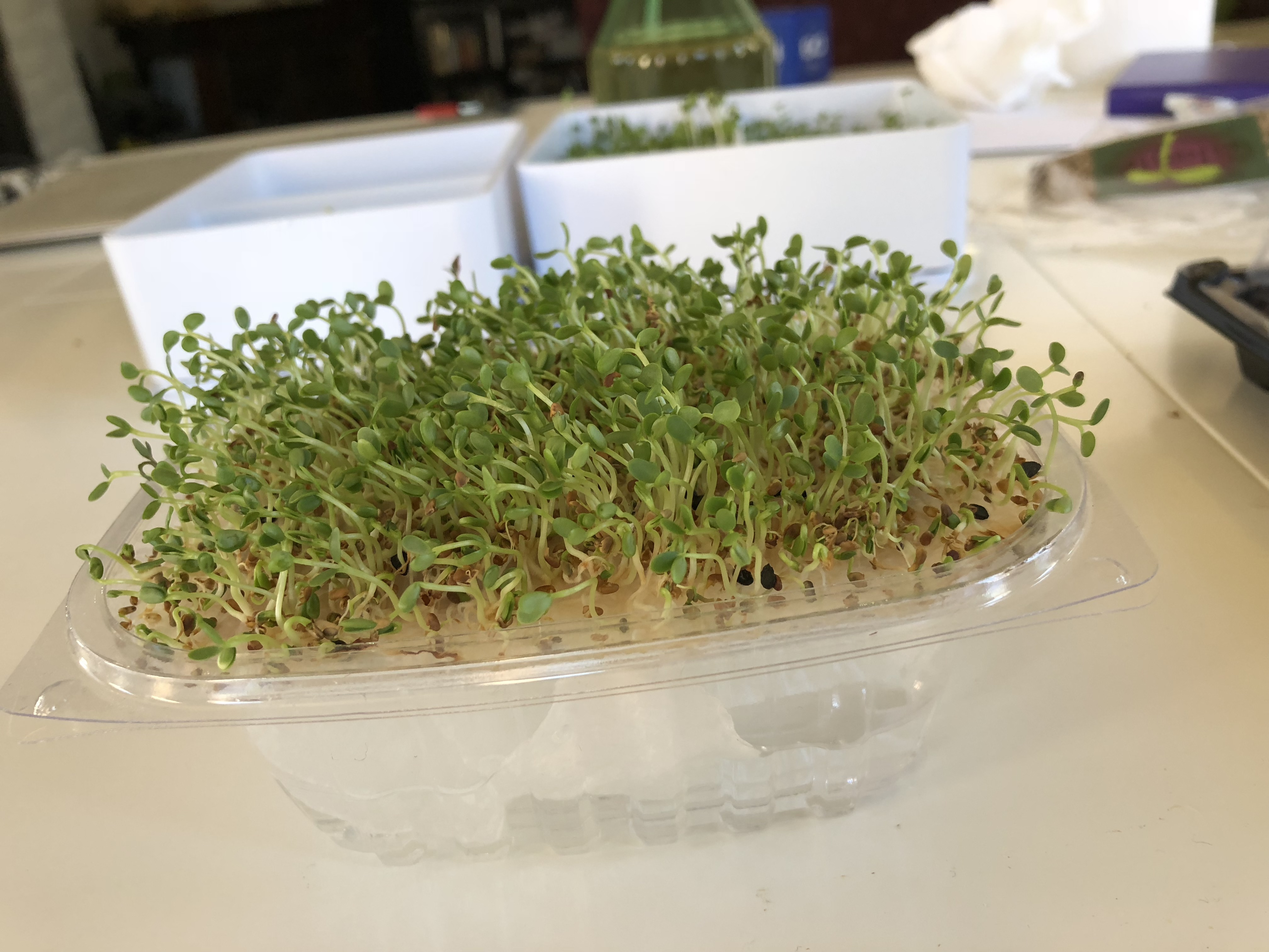
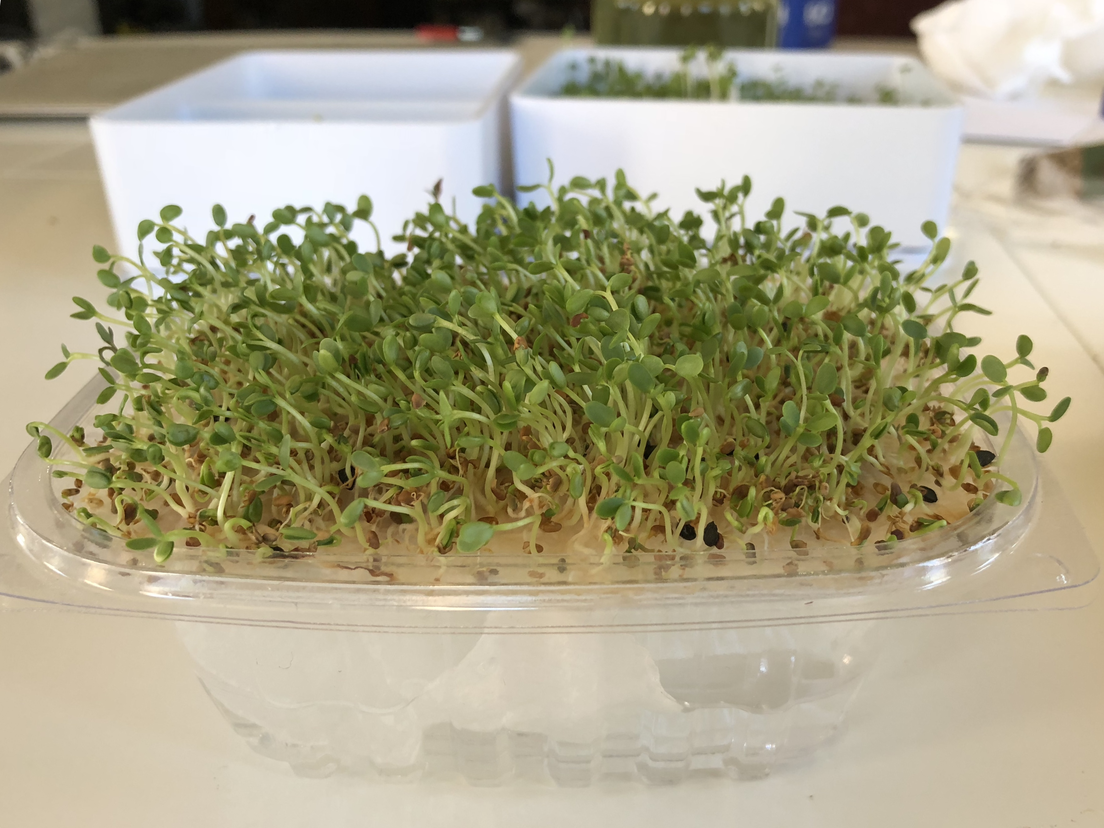
adds content

diff --git a/microgardening.md b/microgardening.md
@@ -83,7 +83,9 @@ Sprouts will grow straight up in the sprouter, so you'll get longer, thicker ste
 
 ### Botanical Interests Sprouter
 
-It's very similar to the [Sprout Master](#sprout-master), but it's more attractive (well, I guess that's a matter of taste).  Since the walls are clear you can more easily monitor how things are going. Like the Sprout Master, it's hard to de-hull sprouts grown in this one because the hulls will adhere to the root area.
+It's very similar to the [Sprout Master](#sprout-master), but it's more attractive (well, I guess that's a matter of taste).  Since the walls are clear you can more easily monitor how things are going. Like the Sprout Master, it's hard to de-hull sprouts grown in this one because the hulls will adhere to the root area.But, if you don't mind the hulls, you can just pluck sprouts right out of this grower and pop them on your salad.
+
+![Botanical Interest sprouter with broccoli sprouts](media/botanical-interests-broc.jpg)
 
 ### Vittorio Tiered Sprouter
 
@@ -121,6 +123,28 @@ But they are gorgeous!  So, if you want something attractive and you're willing 
 ![sprouts growing in a glass tray](media/with_arduinos.JPG)
 
 ### Lettuce Boxes
+
+Lettuce boxes are the best way to grow microgreens I've found.  You can grow them on the lid, with the box serving as a water resevoir, and paper towels pushed through the lid to wick the water up to the plants.  There's no effort needed once you've set them up.
+
+I stumbled across this method on youtube by user Mini-Gro: [https://www.youtube.com/channel/UCWwaIXFtKyN8qEw_sMjfIUA](https://www.youtube.com/channel/UCWwaIXFtKyN8qEw_sMjfIUA).  I don't know who they are, they don't provide any links or info, and they only have 3 videos, but the technique is genius.
+
+I played around with the idea a bit, putting a baby's blanket on top of the paper towels to give the plants something more substantial to grow in than just a paper towel.
+
+![lettuce box with paper towels installed](media/lettuce_prep.JPG)
+
+![lettuce box with baby's blanket](media/lettuce_prep2.JPG)
+
+This didn't work well.  The roots of the sprouts pushed the baby's blanket up and away from the papertowels, causing it to dry out.  You can see the stunted sprouts in the corners.
+
+![lettuce box showing stunted sprouts](media/tuinkers_lettuce2.JPG)
+
+A better method, but a bit more fiddly, was to place the baby's blanket *under* the paper towel wick.  I then placed another paper towel on top of the whole thing since the baby's blanket had to be smaller than the size of the lid to fit under the paper towel wick.  Pro tip:  Don't try to moisten the baby's blanket before you install it or it will just dampen your paper towels, which will rip as you try to tighten them down over the medium.
+
+![lettuce box with seeds](media/mix_it_lettuce.JPG)
+
+After putting the seeds on I just gave them a quick spritz to dampen them, and then I never watered them again afterwards.  I covered them with an extra lid for the first few days while they germinated.
+
+![lettuce box with growing sprouts](media/mix_it_lettuce1.JPG)
 
 ## Medium and Supplements
 
